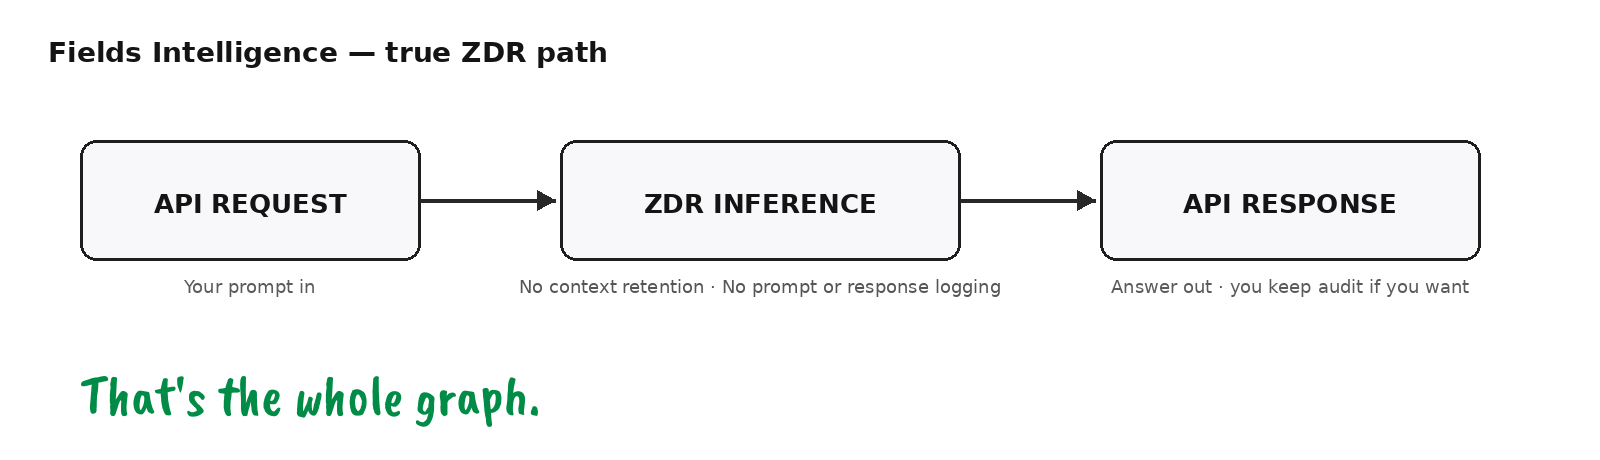
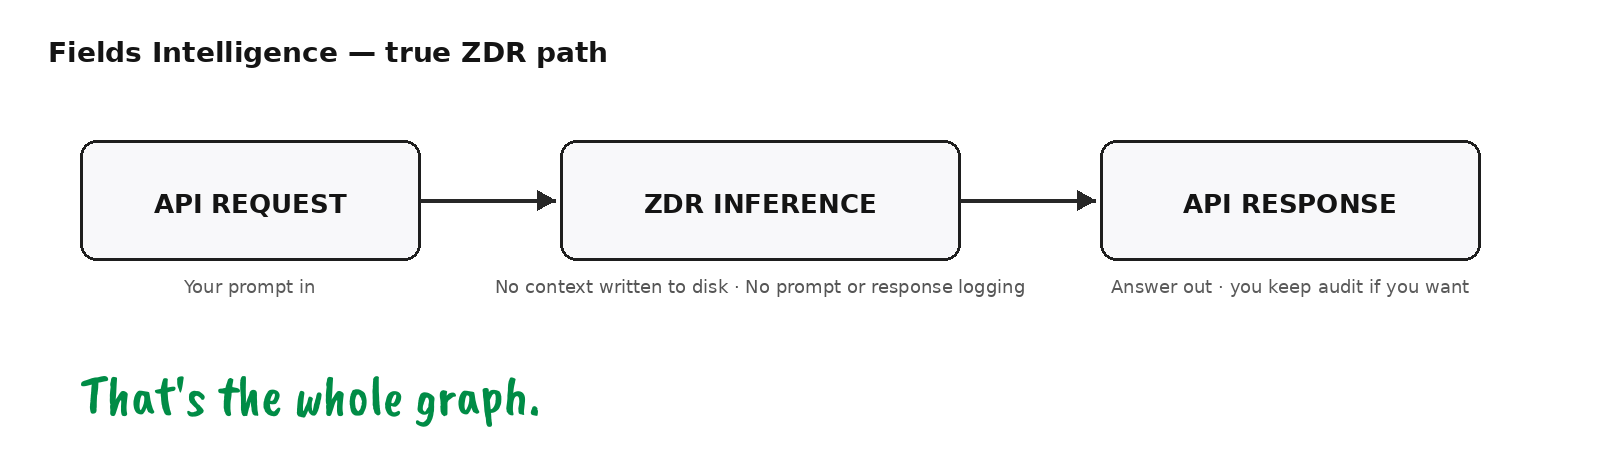
Fig. 3 v3 caption + header How it works → /how-it-works (#33)
* Add red test for Fig. 3 v3 caption, PNG hash and How it works nav link

The test checks three things: the v3 caption string in lib/blog.ts, a sha256 of the Fig. 3 PNG equal to Marketing's v3 export (6af8e085…ea60), and a header nav "How it works" href of /how-it-works. It is added to the npm test list. Existing tests are unchanged.

* Ship Fig. 3 v3 and point header How it works to /how-it-works

Replace the Fig. 3 PNG with Marketing's v3 export (sha256 6af8e085…ea60), whose label reads "No context written to disk · No prompt or response logging". Change the caption parenthetical to match. The alt text is unchanged. Change the header nav "How it works" href from /#sovereign to /how-it-works; the desktop and mobile menus both read lib/site.ts nav. The label is unchanged. Ship calls: Zak 9:43 AM CT (caption), President option (a) (nav).

---------

Changed region(s): [[0.3125, 0.6087, 0.6562, 0.6696]]

diff --git a/src/fig3-v3-nav.test.ts b/src/fig3-v3-nav.test.ts
@@ -1,0 +1,37 @@
+import assert from "node:assert/strict";
+import { createHash } from "node:crypto";
+import { readFileSync } from "node:fs";
+import { dirname, join } from "node:path";
+import { test } from "node:test";
+import { fileURLToPath } from "node:url";
+
+// Ship calls 2026-10-21: Fig. 3 v3 caption (Zak, 9:43 AM CT) and the header
+// "How it works" link pointing to /how-it-works (President, option (a)).
+
+const ROOT = join(dirname(fileURLToPath(import.meta.url)), "..");
+
+// sha256 of Marketing's v3 export, confirmed by Marketing.
+const FIG3_V3_SHA256 =
[1 lines of base64/hex data omitted]
+
+const FIG3_CAPTION =
+  "Fields Intelligence illustration. API request → ZDR inference (no context written to disk, no prompt or response logging) → API response. That’s the whole graph.";
+
+test("Fig. 3 caption uses the v3 wording", () => {
+  const source = readFileSync(join(ROOT, "lib", "blog.ts"), "utf8");
+  assert.ok(source.includes(JSON.stringify(FIG3_CAPTION)), "Fig. 3 caption is not the v3 wording");
+});
+
+test("Fig. 3 PNG is Marketing's v3 export, byte for byte", () => {
+  const png = readFileSync(
+    join(ROOT, "public", "blog", "blog-fields-intelligence-true-zdr-path.png"),
+  );
+  assert.equal(createHash("sha256").update(png).digest("hex"), FIG3_V3_SHA256);
+});
+
+test('header nav "How it works" links to /how-it-works', () => {
+  const source = readFileSync(join(ROOT, "lib", "site.ts"), "utf8");
+  const items = [...source.matchAll(/\{\s*href:\s*"([^"]*)",\s*label:\s*"How it works"\s*\}/g)];
+  assert.equal(items.length, 1, 'expected exactly one "How it works" nav item');
+  assert.equal(items[0]?.[1], "/how-it-works");
+});

diff --git a/lib/blog.ts b/lib/blog.ts
@@ -76,7 +76,7 @@ const FIGURES: Record<
     alt: "Fields Intelligence true ZDR path: API request, ZDR inference, API response",
     title: "Fig. 3 — Fields Intelligence true ZDR path",
     caption:
-      "Fields Intelligence illustration. API request → ZDR inference (no context retention, no prompt or response logging) → API response. That’s the whole graph.",
+      "Fields Intelligence illustration. API request → ZDR inference (no context written to disk, no prompt or response logging) → API response. That’s the whole graph.",
   },
 };
 

diff --git a/lib/site.ts b/lib/site.ts
@@ -22,7 +22,7 @@ export const nav = [
   { href: "/#use-cases", label: "Use cases" },
   { href: "/#products", label: "The work" },
   { href: "/#demo", label: "Demo" },
-  { href: "/#sovereign", label: "How it works" },
+  { href: "/how-it-works", label: "How it works" },
   { href: "/#founder", label: "Founder" },
   // Blog host index. Relative `/blog` 308s, and on the blog host `/` never leaves that subdomain.
   { href: `${site.blogUrl}/`, label: "Blog" },
